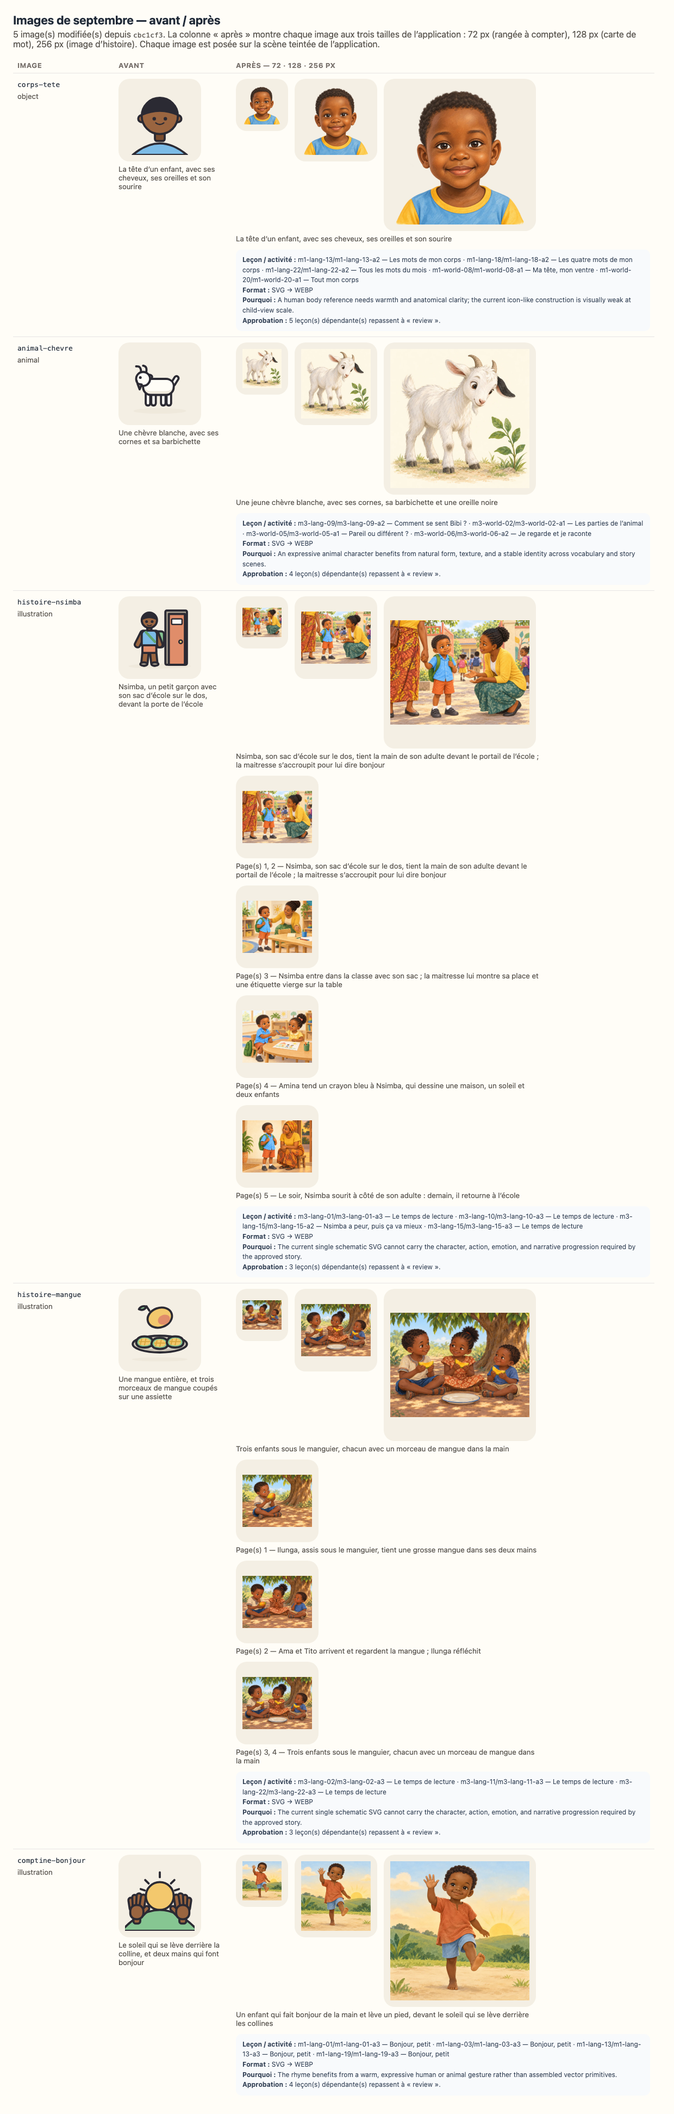
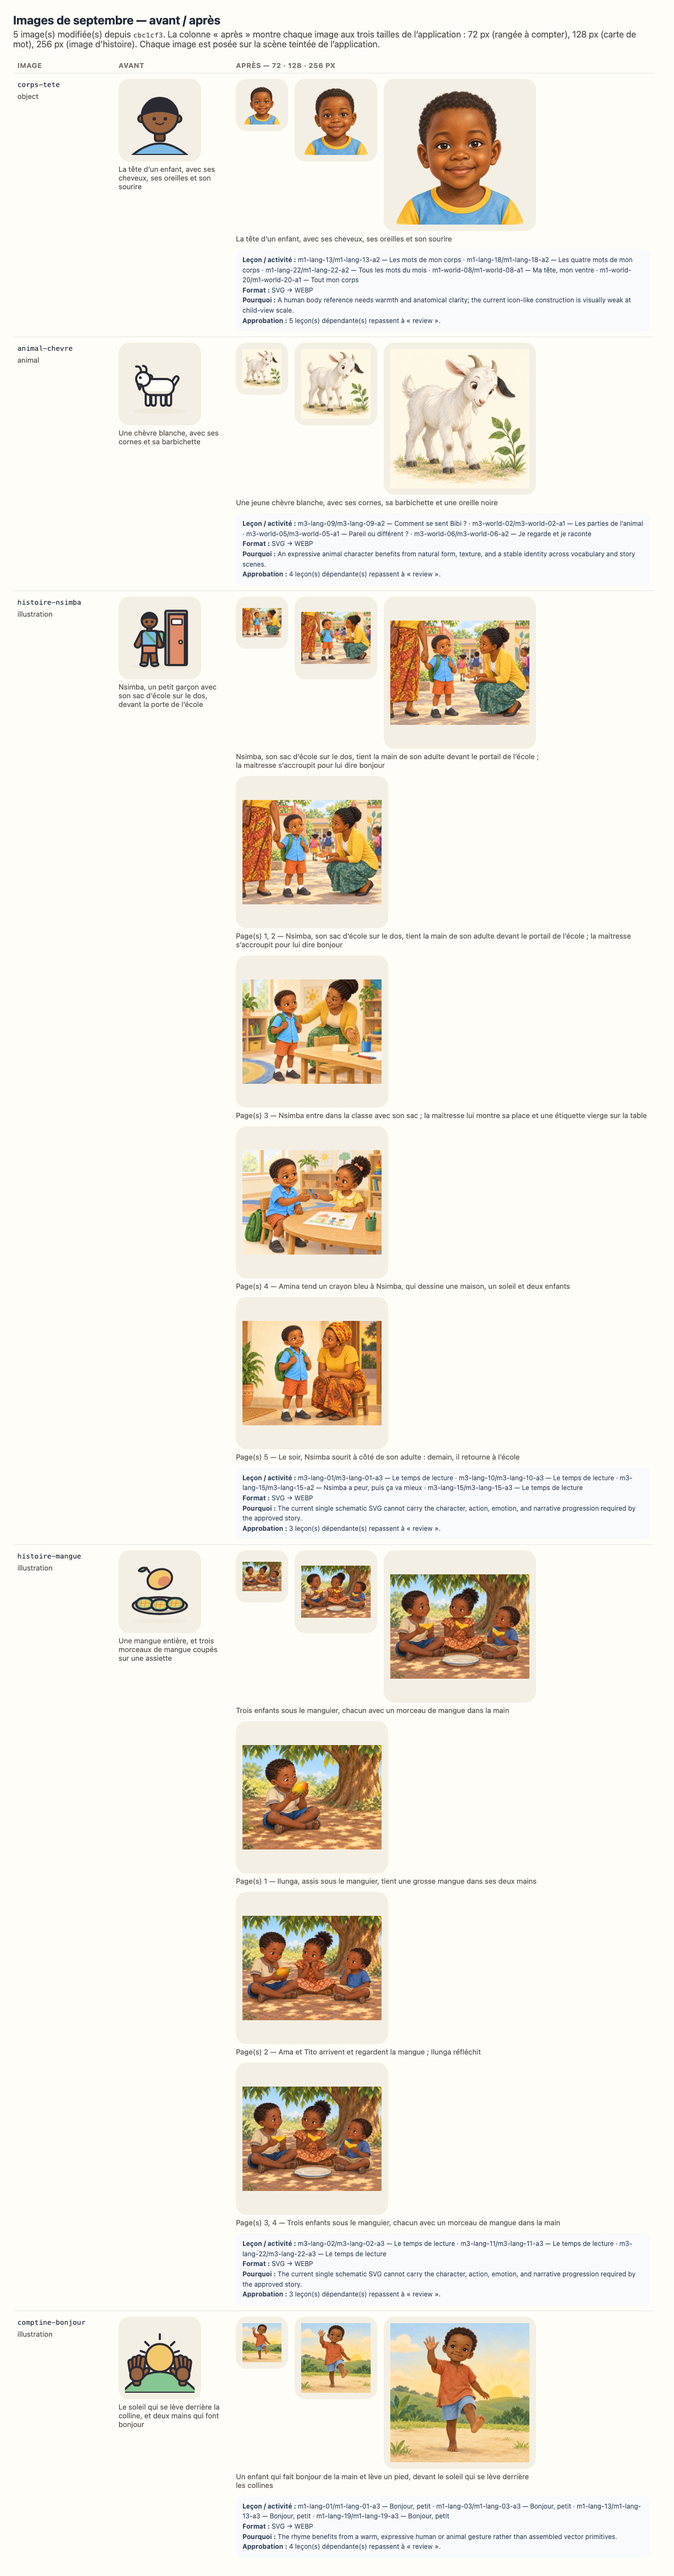
Strengthen pilot reconfirmation evidence

diff --git a/scripts/visual-reconfirmation.ts b/scripts/visual-reconfirmation.ts
@@ -19,6 +19,7 @@ import { mkdirSync, readFileSync, writeFileSync } from "node:fs";
 import path from "node:path";
 import { format, resolveConfig } from "prettier";
 import { shownPictureIds } from "@/domain/lessons/pictures";
+import { STORY_LINES_PER_PAGE } from "@/domain/lessons/texts";
 import type { ActivityType } from "@/domain/lessons/types";
 import { assetFingerprint } from "@/domain/media/types";
 import { REVIEW_PACKAGES } from "@/lib/content/review-packages";
@@ -256,6 +257,47 @@ for (const levelId of levels) {
         }),
       ),
     );
+  }
+  const reviewedTexts = data.texts.filter(
+    (text) =>
+      text.illustrationId !== null && shownHere.some((asset) => asset.id === text.illustrationId),
+  );
+  if (reviewedTexts.length > 0) {
+    lines.push(
+      "",
+      "## Texte approuvé et image montrée, page par page",
+      "",
+      "Ces extraits sont les mots canoniques réellement affichés dans l’application. Ils permettent",
+      "de juger chaque scène sans devoir consulter un autre fichier. Une histoire avance par groupes",
+      `de ${STORY_LINES_PER_PAGE} lignes ; une comptine tient sur une seule page.`,
+      "",
+    );
+    for (const text of reviewedTexts) {
+      const asset = shownHere.find((candidate) => candidate.id === text.illustrationId)!;
+      lines.push(`### \`${asset.id}\` — ${text.title}`, "");
+      const pages =
+        text.kind === "rhyme"
+          ? [text.lines]
+          : Array.from({ length: Math.ceil(text.lines.length / STORY_LINES_PER_PAGE) }, (_, page) =>
+              text.lines.slice(
+                page * STORY_LINES_PER_PAGE,
+                page * STORY_LINES_PER_PAGE + STORY_LINES_PER_PAGE,
+              ),
+            );
+      for (const [page, pageLines] of pages.entries()) {
+        const frameIndex = asset.sequence?.pageFrames[page];
+        const frame = frameIndex === undefined ? undefined : asset.sequence?.frames[frameIndex];
+        const shownFile = frame?.file ?? asset.file;
+        const shownAlt = frame?.alt ?? asset.alt;
+        lines.push(
+          `- **Page ${page + 1} — image :** \`public/media/${shownFile}\``,
+          `  - Description accessible : ${shownAlt}`,
+          "  - Texte affiché :",
+          ...pageLines.map((line) => `    > ${line}`),
+          "",
+        );
+      }
+    }
   }
   const short = (h: string | undefined) => (h ? h.slice(7, 19) : "—");
   const levelLessons = [...lessonsNow.values()];

diff --git a/scripts/media-contact-sheet.ts b/scripts/media-contact-sheet.ts
@@ -107,7 +107,7 @@ const rows = changed
         .join(", ");
       const file = path.join(ROOT, "public/media", frame.file);
       const picture = existsSync(file)
-        ? cell(dataUri(frame.file, readFileSync(file)), 128)
+        ? cell(dataUri(frame.file, readFileSync(file)), 256)
         : "<em>fichier manquant</em>";
       return `<div class="frame">${picture}<small>Page(s) ${pages} — ${escape(frame.alt)}</small></div>`;
     });
@@ -139,6 +139,7 @@ const html = `<!doctype html>
   small { color: #57534e; display: block; margin-top: 6px; max-width: 560px; }
   code { font-size: 13px; }
   .frame { margin-top: 12px; }
+  .frame small { max-width: 780px; }
   .review { margin-top: 12px; padding: 10px 12px; border-radius: 10px; background: #f8fafc; color: #334155; font-size: 12px; line-height: 1.55; }
 </style></head><body>
 <h1>Images de septembre — avant / après</h1>

diff --git a/docs/review/2026-2027-maternelle-3-reconfirmation-visuelle.md b/docs/review/2026-2027-maternelle-3-reconfirmation-visuelle.md
@@ -50,6 +50,75 @@ compter), 128 px (une carte de mot), 256 px (l’image d’une histoire).
 | `histoire-mangue` | 2       | `public/media/illustrations/histoire-mangue-02.webp` | Ama et Tito arrivent et regardent la mangue ; Ilunga réfléchit                                                                                |
 | `histoire-mangue` | 3, 4    | `public/media/illustrations/histoire-mangue-03.webp` | Trois enfants sous le manguier, chacun avec un morceau de mangue dans la main                                                                 |
 
+## Texte approuvé et image montrée, page par page
+
+Ces extraits sont les mots canoniques réellement affichés dans l’application. Ils permettent
+de juger chaque scène sans devoir consulter un autre fichier. Une histoire avance par groupes
+de 3 lignes ; une comptine tient sur une seule page.
+
+### `histoire-nsimba` — Le premier jour de Nsimba
+
+- **Page 1 — image :** `public/media/illustrations/histoire-nsimba-01.webp`
+  - Description accessible : Nsimba, son sac d’école sur le dos, tient la main de son adulte devant le portail de l’école ; la maitresse s’accroupit pour lui dire bonjour
+  - Texte affiché :
+    > Ce matin, Nsimba met sa chemise, ses chaussures, et son petit sac sur le dos.
+    > Aujourd’hui, c’est son premier jour à l’école.
+    > Sur le chemin, son ventre fait un drôle de nœud. Nsimba serre très fort la main de son adulte.
+
+- **Page 2 — image :** `public/media/illustrations/histoire-nsimba-01.webp`
+  - Description accessible : Nsimba, son sac d’école sur le dos, tient la main de son adulte devant le portail de l’école ; la maitresse s’accroupit pour lui dire bonjour
+  - Texte affiché :
+    > Devant le portail, il y a beaucoup d’enfants. Beaucoup de bruit. Beaucoup de pieds.
+    > Nsimba voudrait rentrer à la maison.
+    > La maitresse s’accroupit devant lui. « Bonjour. Moi, c’est madame Kalala. Et toi ? »
+
+- **Page 3 — image :** `public/media/illustrations/histoire-nsimba-02.webp`
+  - Description accessible : Nsimba entre dans la classe avec son sac ; la maitresse lui montre sa place et une étiquette vierge sur la table
+  - Texte affiché :
+    > Nsimba ne dit rien. Puis, tout doucement : « Nsimba. »
+    > « Viens, Nsimba, dit la maitresse. Ta place est ici, avec ton prénom dessus. »
+    > Sur la table, il y a son prénom. Rien qu’à lui.
+
+- **Page 4 — image :** `public/media/illustrations/histoire-nsimba-03.webp`
+  - Description accessible : Amina tend un crayon bleu à Nsimba, qui dessine une maison, un soleil et deux enfants
+  - Texte affiché :
+    > À côté, une fille lui tend un crayon bleu. « Tu veux ? Moi, c’est Amina. »
+    > Nsimba prend le crayon. Il dessine une maison, un soleil, et deux enfants.
+    > Le soir, son adulte demande : « Alors, cette école ? »
+
+- **Page 5 — image :** `public/media/illustrations/histoire-nsimba-04.webp`
+  - Description accessible : Le soir, Nsimba sourit à côté de son adulte : demain, il retourne à l’école
+  - Texte affiché :
+    > Nsimba répond : « Demain, j’y retourne. »
+
+### `histoire-mangue` — La mangue partagée
+
+- **Page 1 — image :** `public/media/illustrations/histoire-mangue-01.webp`
+  - Description accessible : Ilunga, assis sous le manguier, tient une grosse mangue dans ses deux mains
+  - Texte affiché :
+    > Ilunga trouve une grosse mangue sous l’arbre. Une seule.
+    > Il la met dans ses deux mains. Elle est lourde, et elle sent très bon.
+    > Ilunga s’assoit pour la manger tout seul.
+
+- **Page 2 — image :** `public/media/illustrations/histoire-mangue-02.webp`
+  - Description accessible : Ama et Tito arrivent et regardent la mangue ; Ilunga réfléchit
+  - Texte affiché :
+    > Mais voilà Ama, sa voisine. Et voilà Tito, son petit frère. Ils regardent la mangue.
+    > Ils sont trois, et il y a une seule mangue.
+    > Ilunga réfléchit. Une mangue, trois enfants. Comment faire ?
+
+- **Page 3 — image :** `public/media/illustrations/histoire-mangue-03.webp`
+  - Description accessible : Trois enfants sous le manguier, chacun avec un morceau de mangue dans la main
+  - Texte affiché :
+    > Il coupe la mangue en trois morceaux : un, deux, trois.
+    > Un morceau pour Ama. Un morceau pour Tito. Un morceau pour lui.
+    > « Maintenant, dit Ilunga, on a tous quelque chose. »
+
+- **Page 4 — image :** `public/media/illustrations/histoire-mangue-03.webp`
+  - Description accessible : Trois enfants sous le manguier, chacun avec un morceau de mangue dans la main
+  - Texte affiché :
+    > Et la mangue, partagée en trois, a un gout encore meilleur.
+
 ## Résumé
 
 | Mesure                                        | Valeur                          |

diff --git a/docs/work/ACTIVE_TASK.md b/docs/work/ACTIVE_TASK.md
@@ -4,8 +4,32 @@
 
 September Rich-Media Visual Upgrade
 
-**Current phase:** the controlled five-asset rich-media pilot is implemented and validated locally. It is
-frozen for owner visual review. Eighteen dependent lessons remain at `review`; no approval has been restored.
+**Current phase:** the owner accepted the controlled five-asset pilot direction. Independent pedagogical
+reconfirmation is being repeated against strengthened page-by-page evidence. Eighteen dependent lessons
+remain at `review`; no approval has been restored and the wider rollout has not begun.
+
+## Independent pilot reconfirmation checkpoint — 2026-09-27
+
+- **Review pass 1:** Claude Max / Opus did not accept the first dossier because it omitted the exact story
+  and rhyme lines and rendered secondary story frames at only 128 px. Astra checked every substantive claim
+  against the canonical repository. The greeting pose supports both canonical rhymes; the mango story is the
+  separate daily read-aloud after the Kumu retelling; Nsimba, the adult and all three mango-story children are
+  continuous; and every story frame supports its assigned page without a contradiction. No media correction
+  is justified from that pass.
+- **Evidence correction:** `scripts/visual-reconfirmation.ts` now places every canonical story/rhyme line
+  beside the exact image shown on that page. `scripts/media-contact-sheet.ts` now renders all seven story
+  frames at 256 px. The two class packages and `september-rich-media-pilot-comparison.png` were regenerated;
+  lesson/content/media bytes and approval digests did not change.
+- **Approval integrity:** September remains 176 total, 158 approved and exactly 18 at `review`. No acceptance
+  entry exists, no digest has been restored, and the remaining 15 candidates are still untouched.
+- **Claude authentication:** the first retry consumed zero input tokens and cost $0 because an invalid
+  `ANTHROPIC_API_KEY` environment override shadowed the Max login. With that override removed, Claude CLI
+  reports no subscription session. The official Claude.ai OAuth flow is open in Chrome at the signed-out
+  Google account chooser; the owner must complete that private login before the bounded review can resume.
+- **Exact resume point:** after the owner completes the open Claude.ai/Google login, verify
+  `env -u ANTHROPIC_API_KEY claude auth status` reports `claude.ai` / `max`; rerun the isolated read-only
+  review from `/tmp/teka-pilot-review-2`; independently verify the verdict; restore only the exact 18 lessons
+  through the standard mechanism if and only if the verdict is explicitly `accepted`.
 
 ## Controlled rich-media pilot checkpoint — 2026-09-27
 

diff --git a/docs/review/2026-2027-maternelle-1-reconfirmation-visuelle.md b/docs/review/2026-2027-maternelle-1-reconfirmation-visuelle.md
@@ -37,6 +37,36 @@ compter), 128 px (une carte de mot), 256 px (l’image d’une histoire).
 | `corps-tete`       | object       | La tête d’un enfant, avec ses cheveux, ses oreilles et son sourire        | La tête d’un enfant, avec ses cheveux, ses oreilles et son sourire                                        | 5 — m1-lang-13, m1-lang-18, m1-lang-22, m1-world-08, m1-world-20 |
 | `comptine-bonjour` | illustration | Le soleil qui se lève derrière la colline, et deux mains qui font bonjour | Un enfant qui fait bonjour de la main et lève un pied, devant le soleil qui se lève derrière les collines | 4 — m1-lang-01, m1-lang-03, m1-lang-13, m1-lang-19               |
 
+## Texte approuvé et image montrée, page par page
+
+Ces extraits sont les mots canoniques réellement affichés dans l’application. Ils permettent
+de juger chaque scène sans devoir consulter un autre fichier. Une histoire avance par groupes
+de 3 lignes ; une comptine tient sur une seule page.
+
+### `comptine-bonjour` — Bonjour, petit
+
+- **Page 1 — image :** `public/media/illustrations/comptine-bonjour.webp`
+  - Description accessible : Un enfant qui fait bonjour de la main et lève un pied, devant le soleil qui se lève derrière les collines
+  - Texte affiché :
+    > Bonjour, bonjour, petit bonjour.
+    > Je dis bonjour à qui est là.
+    > Bonjour la main, bonjour le pied,
+    > bonjour, bonjour, et me voilà.
+
+### `comptine-bonjour` — Bonjour, bonjour
+
+- **Page 1 — image :** `public/media/illustrations/comptine-bonjour.webp`
+  - Description accessible : Un enfant qui fait bonjour de la main et lève un pied, devant le soleil qui se lève derrière les collines
+  - Texte affiché :
+    > Bonjour, bonjour,
+    > le soleil est levé.
+    > Bonjour, bonjour,
+    > la journée peut commencer.
+    > Je dis bonjour à toi,
+    > tu dis bonjour à moi,
+    > et on se donne la main,
+    > une fois, deux fois, trois !
+
 ## Résumé
 
 | Mesure                                        | Valeur                          |

diff --git a/PROJECT_STATUS.md b/PROJECT_STATUS.md
@@ -976,3 +976,20 @@ Local follow-up browser suite: 40 E2E passed, 9 production-only tests skipped, a
 rich-media pilot`). Work is local only. No push, PR, merge, staging, production, database migration,
   production-data operation or October work occurred. Next gate is the owner’s visual decision on the pilot;
   full rollout and approval restoration remain unauthorized.
+
+### 2026-09-27 — Rich-media pilot reconfirmation evidence strengthened (local)
+
+- The owner accepted the pilot direction and authorized the controlled September rollout, subject first to
+  independent acceptance of the exact 18 pilot-affected lessons.
+- Claude Max / Opus rejected the first review dossier because it lacked the canonical story/rhyme lines and
+  showed non-primary story frames at 128 px. Independent repository checks found no resulting media defect:
+  both greeting rhymes match the hand/foot pose, the Kumu lesson’s mango item is a separate daily read-aloud,
+  recurring characters remain continuous, and the Nsimba and mango frames support their assigned pages.
+- The generated packages now quote every canonical line beside its exact page image, and the comparison sheet
+  renders all seven story frames at 256 px. No lesson, text, media file, association, objective, duration,
+  progression, digest or approval changed while strengthening this evidence.
+- The bounded retry has not run: an invalid API-key environment override produced a pre-input 401 with zero
+  tokens and $0 cost, while the Max subscription session is signed out when that override is removed. The
+  official Claude.ai OAuth flow is open for the owner to complete privately in Chrome.
+- State remains exactly 176 total, 158 approved and 18 review. The remaining 15 candidates are untouched;
+  no push, PR, merge, staging, production, database, deployment or October work occurred.
